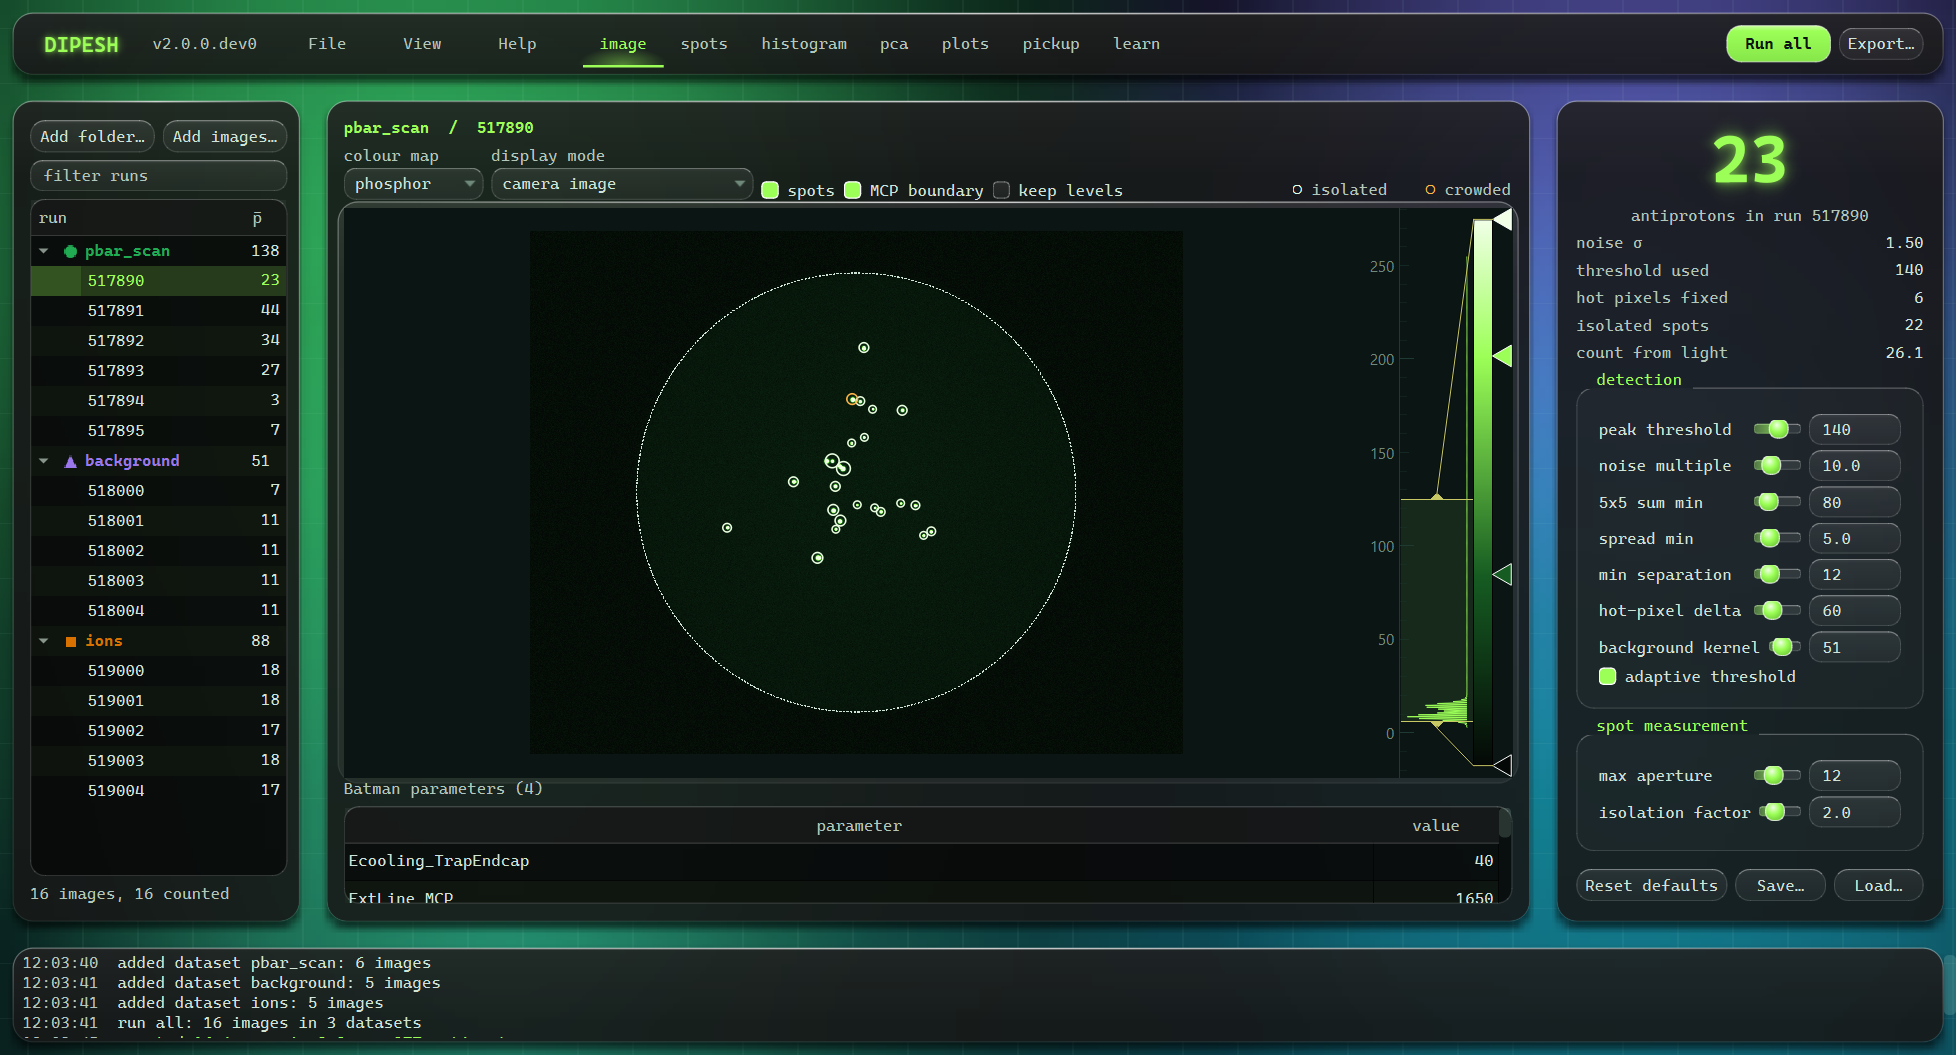
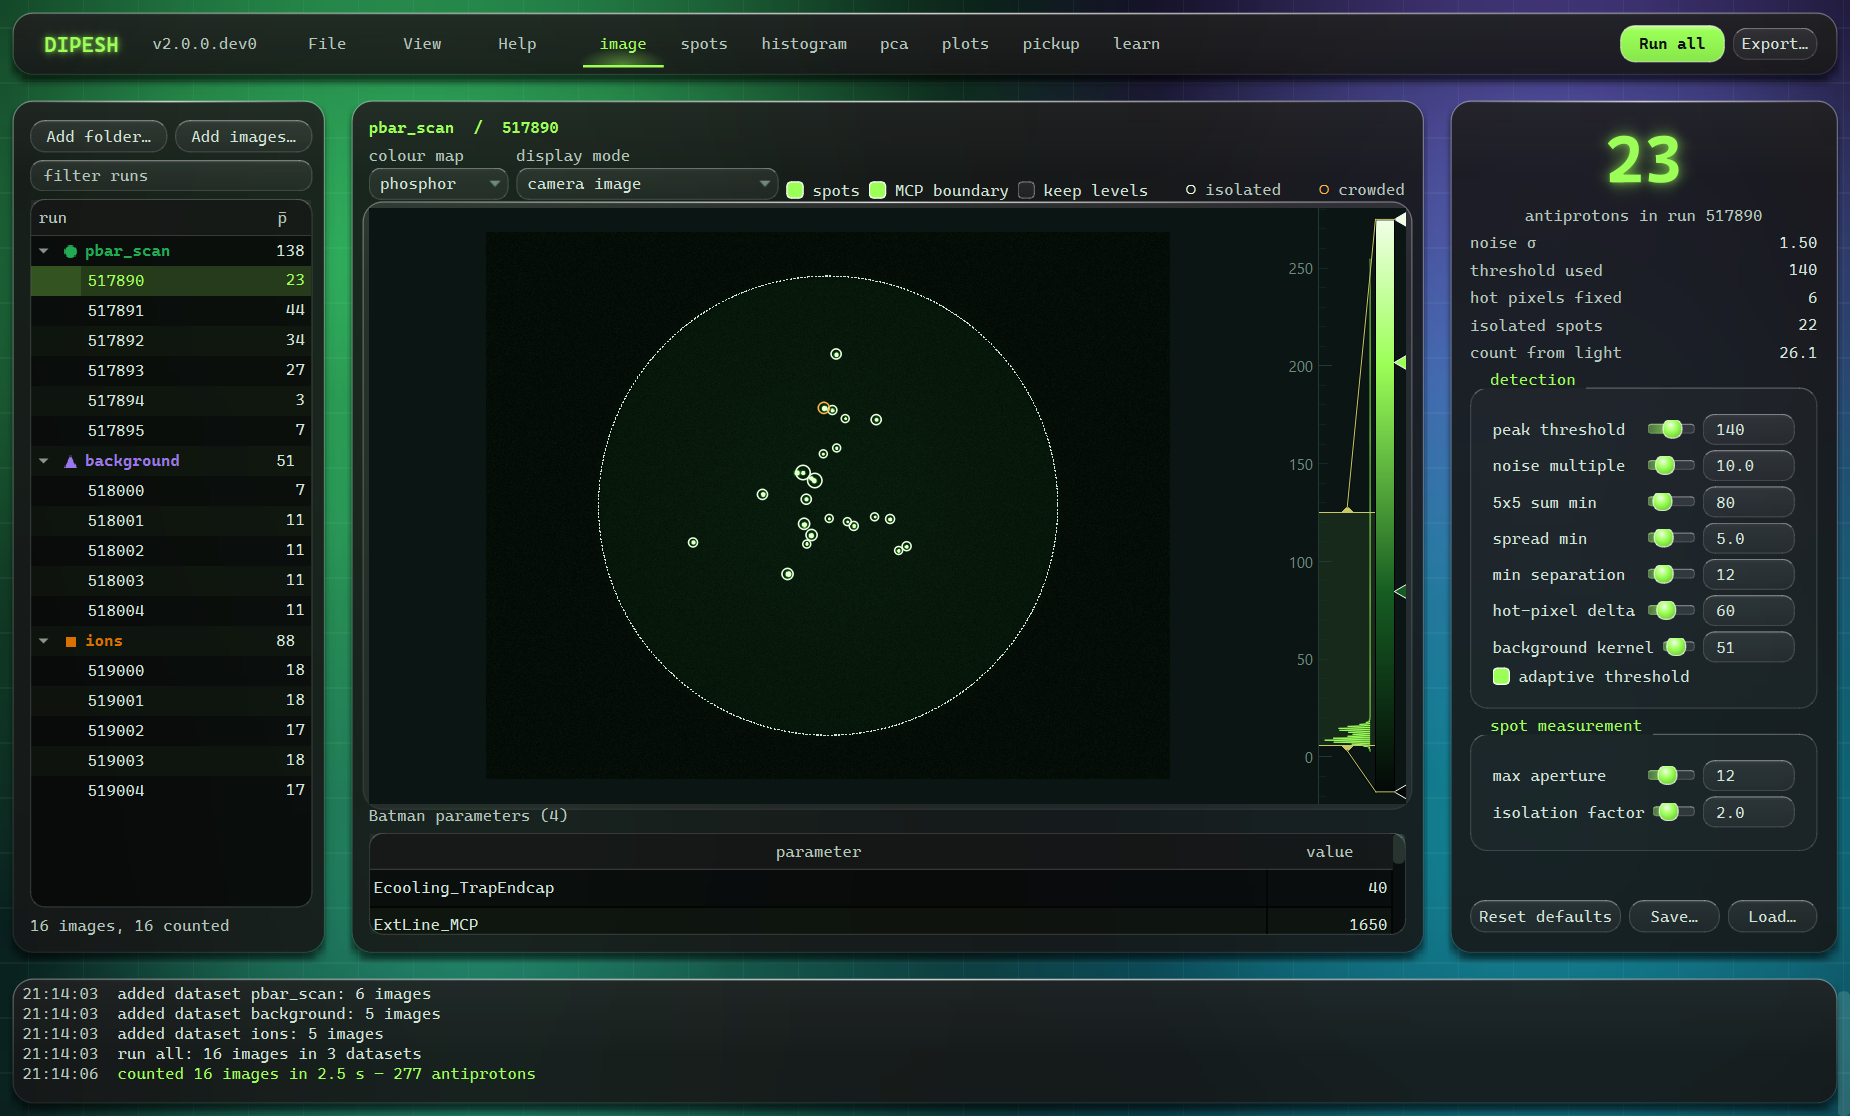
Screenshots: keep only the two the README shows in git
docs/screenshots/v2/ is git-ignored except phosphor_1_image.png and
glass_strong_1_image.png, which the README now shows under "Look". The
other 36 pictures are removed from git with git rm --cached and stay on
disk; py docs/make_screenshots.py remakes all of them. The two kept are
remade from the current code.

Suite: 340 passed (no code change since).

diff --git a/README.md b/README.md
@@ -116,8 +116,11 @@ In both, plot and image areas stay opaque, and every text colour keeps a
 contrast of at least 4.5:1 (WCAG AA) on the lightest glass it can sit on
 (muted text is a lighter grey in Strong for that). On Windows 11 the window
 frame also gets the system's Mica backdrop and a dark title bar. Screenshots
-of every page in each look: `docs/screenshots/v2/` (made by
-`py docs/make_screenshots.py`).
+of every page in each look are written to `docs/screenshots/v2/` by
+`py docs/make_screenshots.py` (only these two are kept in git):
+
+![The image page in Phosphor](docs/screenshots/v2/phosphor_1_image.png)
+![The image page in Glass, Strong](docs/screenshots/v2/glass_strong_1_image.png)
 
 **Move around.** Click a run, or use ↑ ↓ in the list, or PgUp / PgDn from
 anywhere. Ctrl+1 … Ctrl+6 switch analysis.
